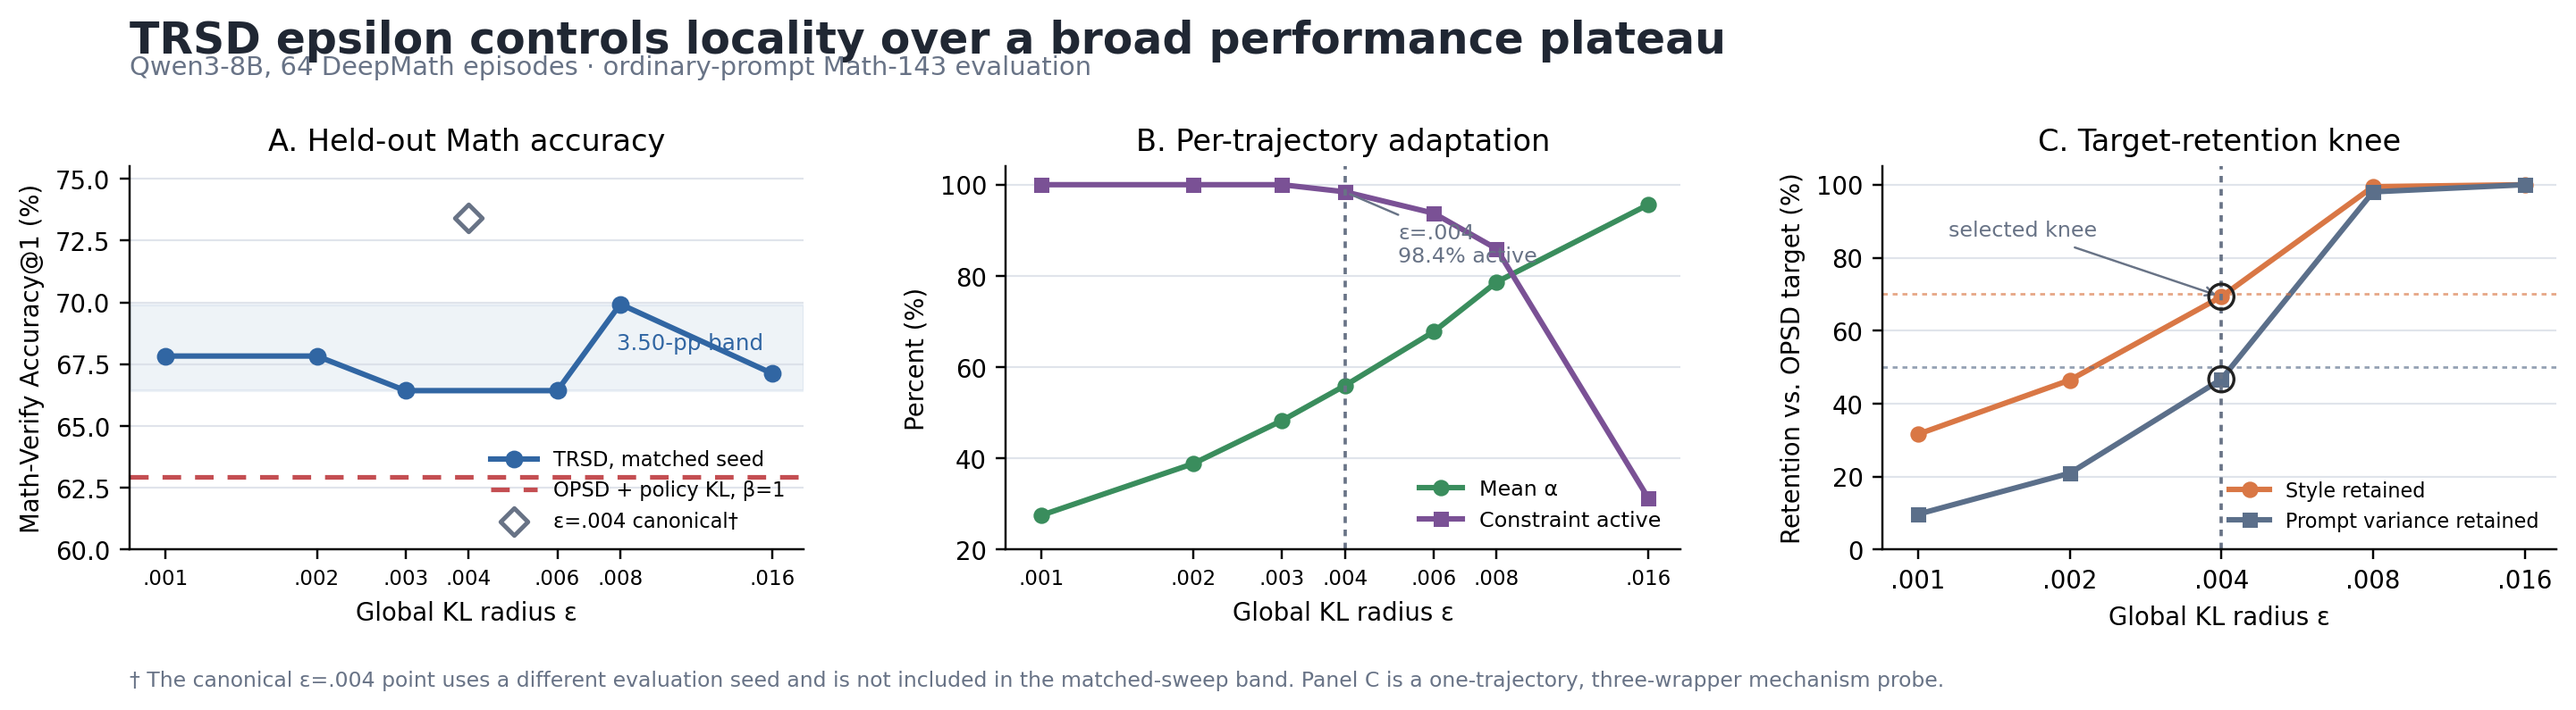
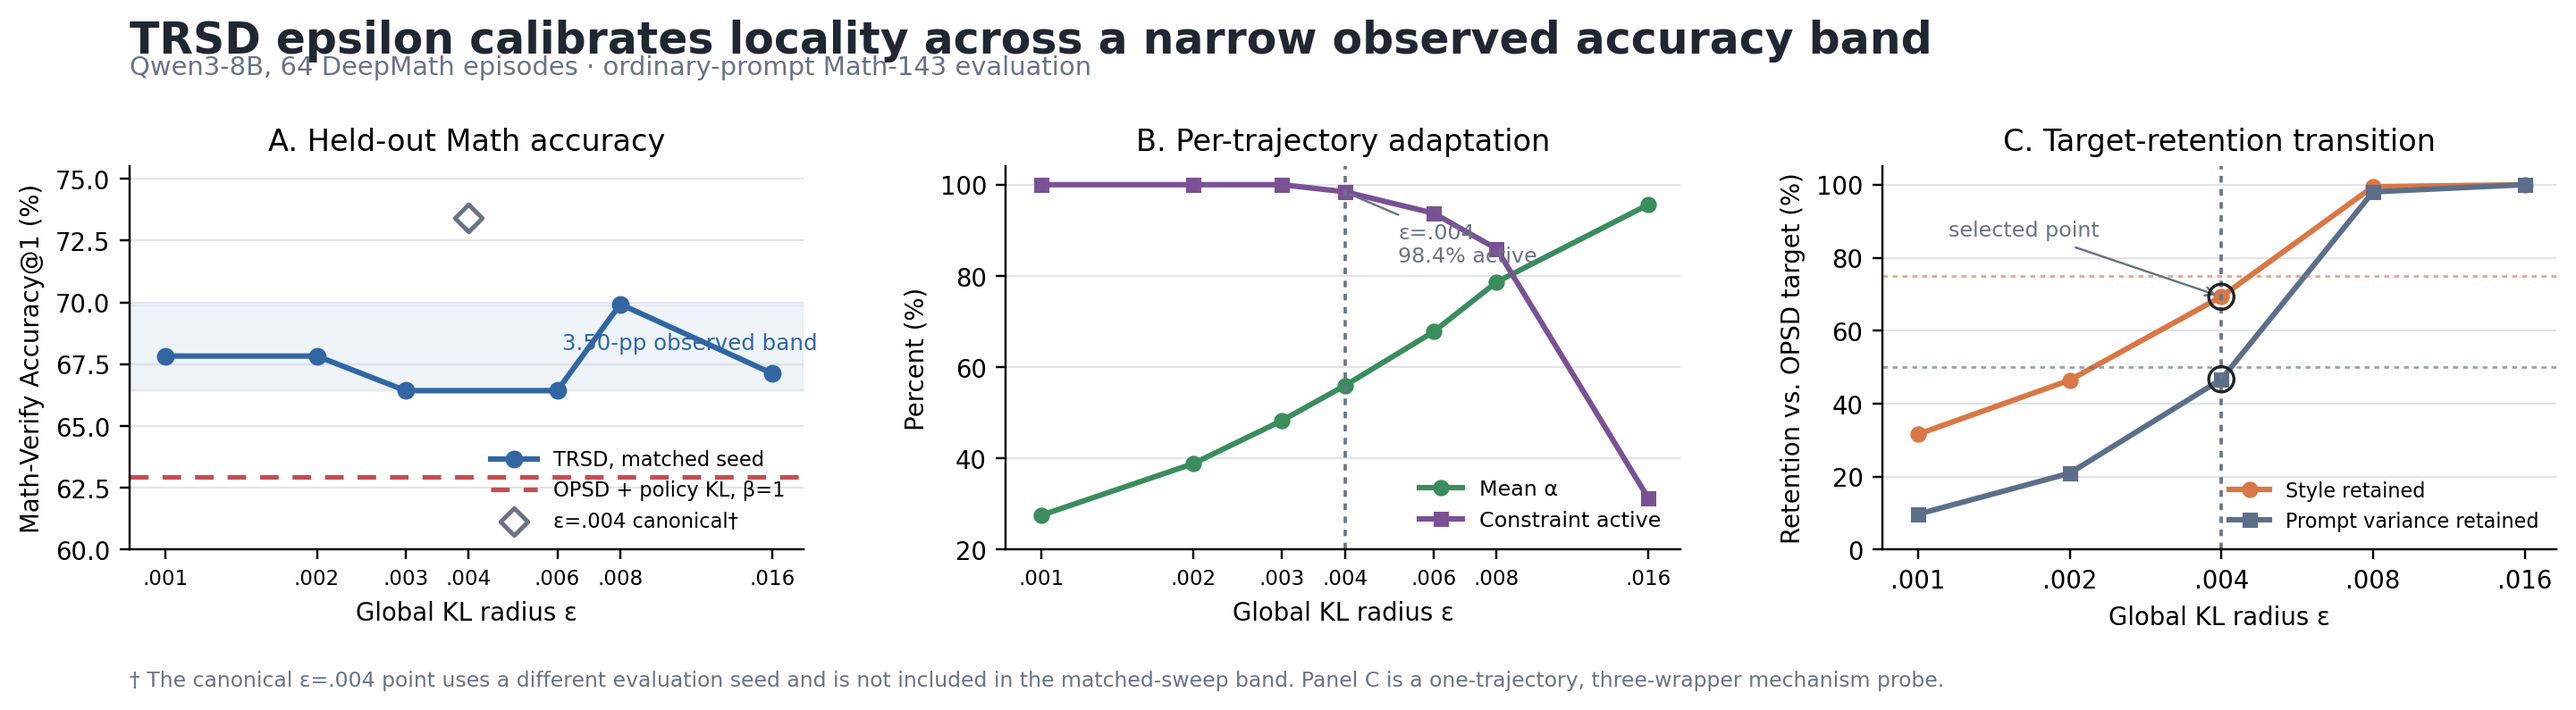
Tighten epsilon calibration claims

diff --git a/scripts/clean_self_distill/50_plot_epsilon_report.py b/scripts/clean_self_distill/50_plot_epsilon_report.py
@@ -49,7 +49,7 @@ def main() -> None:
     ax.plot(eps, accuracy, color=blue, marker="o", linewidth=2.0, markersize=5.5, label="TRSD, matched seed")
     ax.axhline(62.94, color=red, linestyle=(0, (4, 3)), linewidth=1.7, label="OPSD + policy KL, β=1")
     ax.scatter([0.004], [73.43], marker="D", s=50, facecolors="white", edgecolors=gray, linewidth=1.6, zorder=5, label="ε=.004 canonical†")
-    ax.annotate("3.50-pp band", xy=(0.011, 68.1), color=blue, fontsize=8, ha="center")
+    ax.annotate("3.50-pp observed band", xy=(0.011, 68.1), color=blue, fontsize=8, ha="center")
     ax.set_title("A. Held-out Math accuracy")
     ax.set_ylabel("Math-Verify Accuracy@1 (%)")
     ax.set_ylim(60, 75.5)
@@ -78,12 +78,12 @@ def main() -> None:
     prompt_variance = np.array([9.6932, 20.9202, 46.6657, 98.0336, 100.0])
     ax.plot(mech_eps, style, color=orange, marker="o", linewidth=2.0, markersize=5, label="Style retained")
     ax.plot(mech_eps, prompt_variance, color=slate, marker="s", linewidth=2.0, markersize=4.8, label="Prompt variance retained")
-    ax.axhline(70, color=orange, linewidth=0.9, linestyle=(0, (2, 2)), alpha=0.65)
+    ax.axhline(75, color=orange, linewidth=0.9, linestyle=(0, (2, 2)), alpha=0.65)
     ax.axhline(50, color=slate, linewidth=0.9, linestyle=(0, (2, 2)), alpha=0.65)
     ax.axvline(0.004, color=gray, linestyle=(0, (2, 2)), linewidth=1.2)
     ax.scatter([0.004, 0.004], [69.3037, 46.6657], s=85, facecolors="none", edgecolors="#222222", linewidth=1.1, zorder=5)
-    ax.annotate("selected knee", xy=(0.004, 69.3037), xytext=(0.00115, 86), fontsize=7.8, color=gray, arrowprops={"arrowstyle": "->", "color": gray, "lw": 0.8})
-    ax.set_title("C. Target-retention knee")
+    ax.annotate("selected point", xy=(0.004, 69.3037), xytext=(0.00115, 86), fontsize=7.8, color=gray, arrowprops={"arrowstyle": "->", "color": gray, "lw": 0.8})
+    ax.set_title("C. Target-retention transition")
     ax.set_ylabel("Retention vs. OPSD target (%)")
     ax.set_ylim(0, 105)
     ax.grid(axis="y", color="#D6DCE5", linewidth=0.7, alpha=0.75)
@@ -99,7 +99,7 @@ def main() -> None:
     axes[2].set_xticks(mech_eps)
     axes[2].set_xticklabels([".001", ".002", ".004", ".008", ".016"])
 
-    figure.suptitle("TRSD epsilon controls locality over a broad performance plateau", x=0.055, ha="left", y=0.96, fontsize=16, fontweight="bold", color="#202733")
+    figure.suptitle("TRSD epsilon calibrates locality across a narrow observed accuracy band", x=0.055, ha="left", y=0.96, fontsize=16, fontweight="bold", color="#202733")
     figure.text(0.055, 0.885, "Qwen3-8B, 64 DeepMath episodes · ordinary-prompt Math-143 evaluation", ha="left", fontsize=9.5, color=gray)
     figure.text(0.055, 0.055, "† The canonical ε=.004 point uses a different evaluation seed and is not included in the matched-sweep band. Panel C is a one-trajectory, three-wrapper mechanism probe.", ha="left", fontsize=7.7, color=gray)
 

diff --git a/epsilon.md b/epsilon.md
@@ -4,26 +4,26 @@ Last updated: 2026-08-13
 
 ## Executive conclusion
 
-The completed Qwen3-8B sweep does **not** show a narrow performance optimum at `epsilon=0.004`. Across the six matched-seed TRSD runs from `epsilon=0.001` to `0.016`, held-out Math accuracy lies in a 3.50-point band, from 66.43% to 69.93%. Thus, performance is better described as a broad plateau than as sensitivity to one precisely tuned value. The canonical `epsilon=0.004` checkpoint reaches 73.43%, but it uses an older evaluation seed and is reported as a reference rather than used to rank epsilon values.
+In this single-seed Qwen3-8B sweep, we do **not observe** a narrow performance optimum at `epsilon=0.004`. Across the six matched-seed TRSD runs from `epsilon=0.001` to `0.016`, held-out Math accuracy lies in an observed 3.50-point band, from 66.43% to 69.93%. The canonical `epsilon=0.004` checkpoint reaches 73.43%, but it uses an older evaluation seed and is reported as a reference rather than used to rank epsilon values. These data are descriptive—not an equivalence test—and support only the narrower conclusion that this experiment shows no sharp single-seed peak.
 
-`epsilon=0.004` remains a defensible default because it is the projection **knee**: it keeps the constraint active on 63/64 training trajectories, uses 97.1% of the KL budget on average, and is the largest value in the existing mechanism probe that keeps style retention below 70% and prompt-variance retention below 50%. Increasing epsilon to `0.008` nearly recovers the unprojected OPSD target in that probe.
+`epsilon=0.004` remains a defensible operating point because it keeps the constraint active on 63/64 training trajectories, uses 97.1% of the KL budget on average, and is the largest value in the existing mechanism probe that satisfies the archived study rule: all wrappers active, at least 50% useful-shift retention, at most 75% style retention, and at most 50% prompt-variance retention. Increasing epsilon to `0.008` nearly recovers the unprojected OPSD target in that probe.
 
 The completed optimizer-side control does not explain the result. With identical held-out query IDs and per-query seeds, OPSD plus a material frozen-Base policy-KL penalty (`beta=1`) obtains 62.94%, while every completed TRSD epsilon obtains 66.43–69.93%. This supports target-space control over that direct baseline, subject to the single-generation uncertainty and incomplete beta sweep stated below.
 
-![TRSD epsilon sensitivity, projection adaptation, and target-retention knee](docs/figures/epsilon_sensitivity_20260813.png)
+![TRSD epsilon sensitivity, projection adaptation, and target-retention transition](docs/figures/epsilon_sensitivity_20260813.png)
 
-**Figure 1.** The matched-seed performance sweep forms a broad plateau (left); increasing epsilon smoothly raises the per-trajectory projection coefficient and lowers constraint activation (center); `epsilon=0.004` is the last tested mechanism point below both retention gates before `0.008` becomes nearly OPSD (right). The hollow `0.004` accuracy marker is a different-seed canonical reference and is excluded from the plateau range.
+**Figure 1.** The matched-seed performance sweep occupies a narrow observed band (left); increasing epsilon smoothly raises the per-trajectory projection coefficient and lowers constraint activation (center); `epsilon=0.004` is the last tested mechanism point passing the archived operating rule before `0.008` becomes nearly OPSD (right). The hollow `0.004` accuracy marker is a different-seed canonical reference and is excluded from the sweep range.
 
 ## Recommended epsilon guideline
 
-> **For Qwen3-8B on DeepMath, use `epsilon=0.004`.** Treat `0.003–0.006` as the robust operating region, not as values to tune on the test set. Recalibrate after changing the backbone or task distribution; do not scale epsilon directly from parameter count.
+> **For Qwen3-8B on DeepMath, use `epsilon=0.004`.** This is the mechanism-calibrated operating point, not the test-set optimum. Recalibrate after changing the backbone or task distribution; do not scale epsilon directly from parameter count.
 
-For a new model/task pair, use the following prespecified calibration procedure:
+For a new model/task pair, use the following proposed calibration procedure and register it before test evaluation:
 
 1. Freeze 128–256 training-side calibration trajectories before looking at the test set. Balance them by a difficulty proxy such as frozen-Base reference-NLL quartile.
 2. On each trajectory, score the unprojected target once and compute its endpoint divergence `K_i(1)`. Projection solves for many epsilon values reuse these scores and require no generation or optimizer step.
 3. Center a three-point grid at the 5th–10th percentile of `K_i(1)`, for example `{0.5 epsilon_0, epsilon_0, 2 epsilon_0}`. This percentile targets 90–95% constraint activation.
-4. Mark a candidate eligible only if, in **every difficulty quartile**, it has at least 90% constraint activation, at most 70% style retention, and at most 50% wrapper-variance retention relative to OPSD.
+4. Mark a candidate eligible only if, in **every difficulty quartile**, it has at least 90% constraint activation, at least 50% useful-shift retention, at most 75% style retention, and at most 50% wrapper-variance retention relative to OPSD.
 5. If calibration accuracy is available, retain candidates within one standard error of the best eligible value. Choose the **largest** remaining epsilon and freeze it before test evaluation.
 
 This yields the explicit selection rule
@@ -31,7 +31,8 @@ This yields the explicit selection rule
 ```text
 epsilon* = max { epsilon :
                  activation(epsilon) >= 90%,
-                 style_retention(epsilon) <= 70%,
+                 useful_shift_retention(epsilon) >= 50%,
+                 style_retention(epsilon) <= 75%,
                  wrapper_variance_retention(epsilon) <= 50%,
                  performance(epsilon) is in the one-SE plateau }.
 ```
@@ -41,11 +42,11 @@ Use these diagnostics when adjusting a pilot value:
 | Calibration diagnostic | Interpretation | Action for next pilot |
 |---|---|---|
 | Activation <90% or median alpha >0.8 | Radius is too loose; many targets are nearly OPSD | Halve epsilon |
-| Style retention >70% or wrapper variance >50% | Privileged expression is insufficiently suppressed | Halve epsilon |
+| Style retention >75% or wrapper variance >50% | Privileged expression is insufficiently suppressed | Halve epsilon |
 | Activation approximately 100%, median alpha <0.3, and useful-signal retention is low | Radius is tighter than necessary | Double epsilon |
 | All gates pass across difficulty quartiles and accuracy is in the one-SE plateau | Stable locality/performance trade-off | Freeze the largest passing epsilon |
 
-For the current Qwen3-8B evidence, `0.002` is tighter than necessary, `0.008` is already nearly OPSD, and `0.004` is the largest measured point passing both retention gates. That is why the guideline selects `0.004` even though `0.008` is the numerical maximum in one matched-seed test sweep.
+For the current Qwen3-8B evidence, `0.002` is more conservative, `0.008` is already nearly OPSD in the mechanism probe, and `0.004` is the largest measured point passing the archived rule. That is why the guideline selects `0.004` even though `0.008` is the numerical maximum in one matched-seed test sweep.
 
 ### Adaptive version without a manual sweep
 
@@ -75,7 +76,7 @@ with a bounded step such as at most a factor of two per block. If too many const
 
 ## Held-out Math performance
 
-**Table 1.** Full-response Math-Verify Accuracy@1 for the 64-episode Qwen3-8B epsilon sweep. The matched-seed sweep spans only 3.50 percentage points overall; `epsilon=0.008` is the numerical maximum within that sweep. The canonical `0.004` row is reference-only because its evaluation seed differs.
+**Table 1.** Full-response Math-Verify Accuracy@1 for the 64-episode Qwen3-8B epsilon sweep. The matched-seed sweep has an observed 3.50-point range; `epsilon=0.008` is the numerical maximum within this single-seed evaluation. The canonical `0.004` row is reference-only because its evaluation seed differs.
 
 | Epsilon | AMC 2022/2023 | AIME 2024 | AIME 2025 | Combined | Cap hits |
 |---:|---:|---:|---:|---:|---:|
@@ -116,9 +117,9 @@ The curves `K_i` differ by query, model state, wrapper, and teacher–student di
 
 The smooth increase in alpha and decrease in activation show that epsilon controls locality continuously. There is no discontinuity around `0.004`.
 
-## Why 0.004 is the projection knee
+## Why 0.004 is the selected operating point
 
-The existing three-wrapper mechanism probe evaluates the same unprojected target at several epsilon values without retraining. It isolates how much useful-token movement and wrapper-sensitive expression survive projection.
+The archived one-trajectory, three-wrapper mechanism probe evaluates the same unprojected target at several epsilon values without retraining. It isolates how much useful-token movement and wrapper-sensitive expression survive projection. The source is Study 4 in `TRSD_METHOD_AND_EXPERIMENTS.md` and its aggregate table `docs/results/trsd_epsilon_one_episode.csv`; this is distinct from the later episode-36 `query_0022` probe.
 
 **Table 3.** One-trajectory mechanism probe. Retention is relative to the unprojected OPSD target; this table is mechanistic evidence, not population performance.
 
@@ -130,7 +131,9 @@ The existing three-wrapper mechanism probe evaluates the same unprojected target
 | 0.008 | 0.995 | 1/3 | 101.3% | 99.5% | 98.0% |
 | 0.016 | 1.000 | 0/3 | 100.0% | 100.0% | 100.0% |
 
-At `0.001–0.002`, projection is substantially stronger and retains less target movement. At `0.008`, style and wrapper variance are almost fully restored, so the target is effectively OPSD. `0.004` is the last tested point satisfying the proposed calibration gates of style retention at most 70% and prompt-variance retention at most 50%. These thresholds are a forward-looking selection guideline, not evidence that the historical run was selected by a preregistered rule. They support `0.004` as a knee, not as a universal constant or a uniquely optimal test-set value.
+At `0.001–0.002`, projection more strongly suppresses style and wrapper variation. At `0.008`, both are almost fully restored, so the target is effectively OPSD. `0.004` is the last tested point satisfying the archived study rule: all three wrappers active, useful-shift retention above 50%, style retention below 75%, and prompt-variance retention below 50%. This identifies a heuristic locality transition, not a formal curvature-derived knee, a universal constant, or a uniquely optimal test-set value.
+
+A separate population study at `epsilon=0.004` covers 3,116 DeepMath queries and three wrappers. It retains 44.31% of style shift (95% query-bootstrap interval 43.67–44.95%) and 20.67% of prompt variance (20.29–21.04%). This validates that `0.004` satisfies the two nuisance-retention gates at population scale, although other epsilon values were not scored on that population.
 
 ## Model-size and task-difficulty scaling
 
@@ -148,7 +151,7 @@ The same numeric epsilon is not invariant across backbones. The trajectory solve
 
 For both Qwen backbones, `0.004` is active on at least 96.9% of trajectories. For GPT-OSS-20B, it is often inactive, indicating that `0.004` is comparatively permissive for that model/target pair. Therefore the recommendation is to recalibrate epsilon when the backbone or task distribution changes, rather than scaling it monotonically with parameter count.
 
-The current DeepMath manifest has no trustworthy explicit difficulty level. Task-difficulty scaling therefore cannot be claimed from these artifacts. A prespecified proxy such as Base reference-NLL quartiles can be used in future calibration; epsilon should not be selected separately on AMC or AIME test results.
+The current DeepMath manifest has no trustworthy explicit difficulty level. Task-difficulty scaling therefore cannot be claimed from these artifacts. A proxy fixed before calibration, such as Base reference-NLL quartiles, can be used in future studies; epsilon should not be selected separately on AMC or AIME test results.
 
 ## Direct optimizer-side KL baseline
 
@@ -160,7 +163,7 @@ L = L_distill + beta * KL(pi_theta || pi_Base),  beta=1.
 
 It is evaluated on the same ordinary-prompt questions and identical per-query seeds as the matched epsilon sweep. The penalty is material: mean policy KL is 0.00615, the KL term is 44.9% of the mean distillation loss and 31.0% of the total objective, and all 64 optimizer steps execute.
 
-**Table 5.** Matched-seed target-space versus optimizer-side control. Every completed TRSD epsilon exceeds the policy-KL baseline.
+**Table 5.** Matched-seed target-space versus optimizer-side control. Every completed TRSD row has higher observed accuracy than the `beta=1` policy-KL baseline; no statistical superiority claim is made from this single generation seed.
 
 | Method | Control | AMC 2022/2023 | AIME 2024 | AIME 2025 | Combined | Cap hits |
 |---|---|---:|---:|---:|---:|---:|
@@ -180,12 +183,12 @@ The reference policy is the fixed frozen Base model, not an immediately pre-upda
 
 ## Reviewer-facing statement
 
-> We select a global KL radius, while the projection strength is adaptive per trajectory. A 64-episode Qwen3-8B sweep over `epsilon in [0.001, 0.016]` yields a broad 66.43–69.93% matched-seed accuracy plateau rather than a sharp optimum. We retain `epsilon=0.004` because independent projection diagnostics place it at the locality knee: the constraint remains active on 98.4% of training trajectories, while increasing epsilon to 0.008 nearly restores the unprojected target's style and prompt variance. Across the same query-and-seed protocol, every tested TRSD radius also outperforms a material optimizer-side frozen-Base KL penalty by 3.50–6.99 points. We therefore treat 0.004 as a calibrated default, not a universal constant, and prescribe an activation-and-retention rule for recalibration across backbones and task distributions.
+> We select a global KL radius, while the projection strength is adaptive per trajectory. In a single-seed, 64-episode Qwen3-8B sweep over `epsilon in [0.001, 0.016]`, we observe a 66.43–69.93% accuracy band rather than a sharp optimum. We retain `epsilon=0.004` because independent projection diagnostics identify it as the largest tested operating point passing the archived activation/useful-signal/style/wrapper-variance rule; the constraint remains active on 98.4% of training trajectories, while increasing epsilon to 0.008 nearly restores the unprojected target's style and prompt variance. Under the same query-and-seed protocol, every observed TRSD point is 3.50–6.99 points above a material frozen-Base policy-KL baseline at `beta=1`. We therefore treat 0.004 as a calibrated default, not a universal constant, and propose an activation-and-retention rule for recalibration across backbones and task distributions.
 
 ## Limitations
 
 - The matched-seed `epsilon=0.004` evaluation was not completed; its canonical result uses a different seed and is excluded from sensitivity-range and paired claims.
-- The mechanism retention grid is a three-wrapper, one-trajectory probe. Only `epsilon=0.004` has population-scale retention evidence.
+- The multi-epsilon mechanism grid is a three-wrapper, one-trajectory probe, and only its aggregate table is currently archived. Only `epsilon=0.004` has population-scale retention evidence.
 - Model-size evidence compares alpha distributions from existing runs, not a full epsilon-by-model performance grid.
 - The held-out evaluation contains one stochastic generation per problem; differences do not include uncertainty over decoding seeds.
 - Only `beta=1` has a complete 143-question policy-KL evaluation, so this report does not identify the best possible optimizer-side coefficient.
@@ -197,5 +200,6 @@ The reference policy is the fixed frozen Base model, not an immediately pre-upda
 - Canonical `epsilon=0.004`: `reverse-kl-matched64-20260807` training and `budget-prompt-eval-20260807/partial_scored/trsd_ep64.jsonl` evaluation.
 - Policy-KL baseline: `qwen3-8b-opsd-controls3-20260812`, variant `policy_kl1`.
 - Mechanism table: `docs/results/trsd_epsilon_one_episode.csv`.
+- Population `epsilon=0.004` retention: `deepmath10-surrogate-qwen8-20260810/figures/summary.json` (3,116 queries).
 - Figure renderer: `scripts/clean_self_distill/50_plot_epsilon_report.py`.
 - Scoring implementation used for this report: full-response Math-Verify as documented in `stats.md`.
